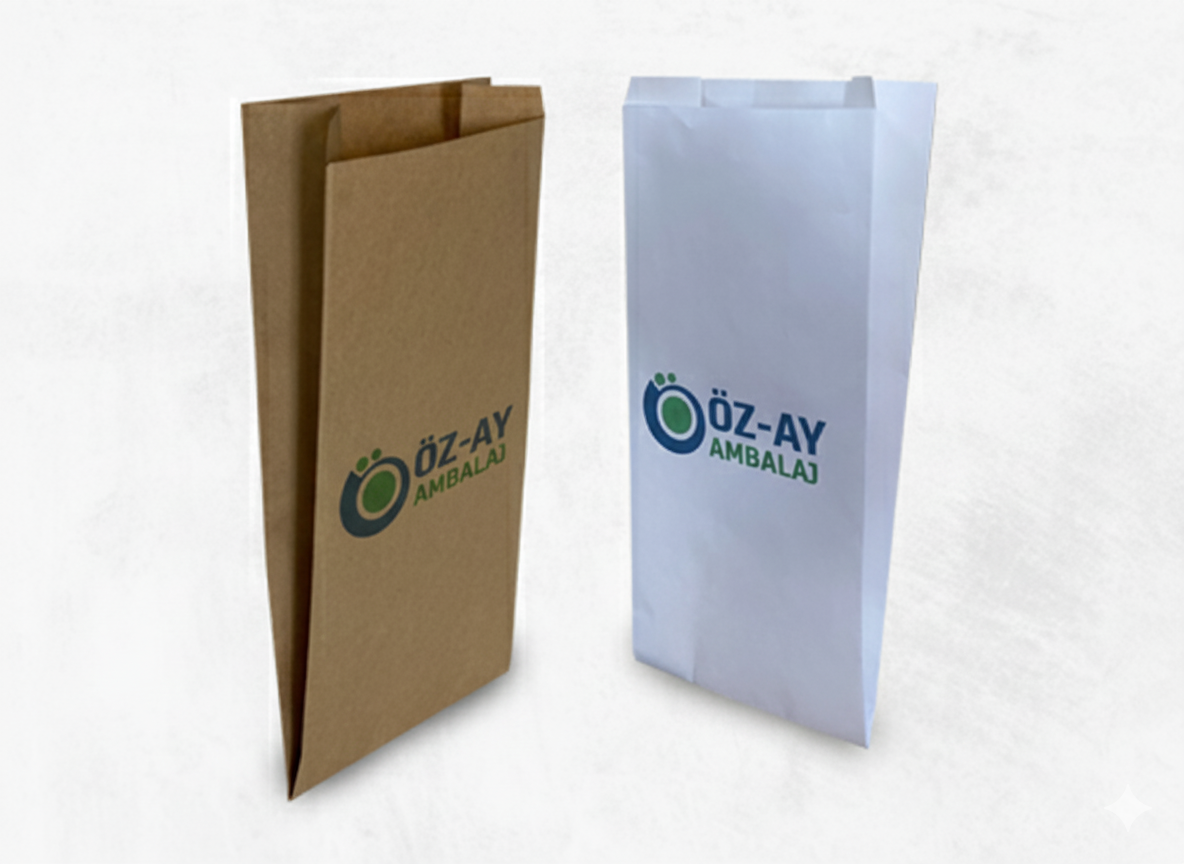
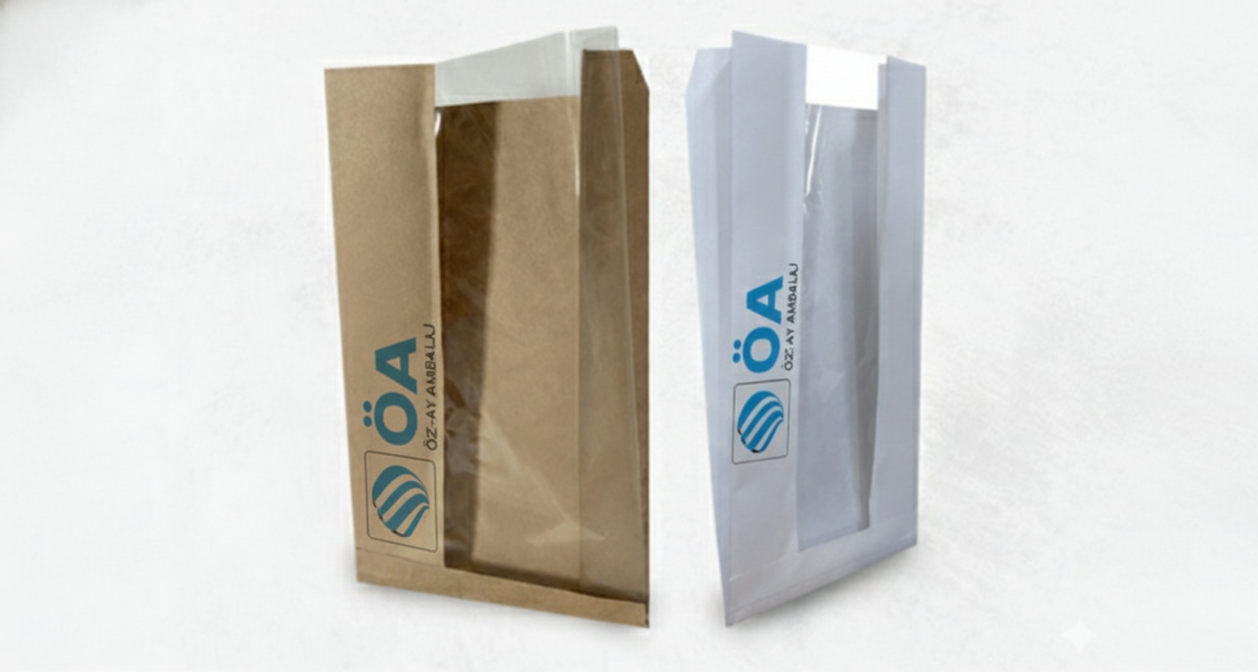
upload

diff --git a/public_html/partials/whatsapp-button.html b/public_html/partials/whatsapp-button.html
@@ -1,5 +1,5 @@
     <!-- WhatsApp Button -->
-    <a href="https://wa.me/905551234567?text=Merhaba,%20Öz-Ay%20Ambalaj%20hakkında%20bilgi%20almak%20istiyorum" 
+    <a href="https://wa.me/905354681968?text=Merhaba,%20Öz-Ay%20Ambalaj%20hakkında%20bilgi%20almak%20istiyorum" 
        class="whatsapp-button" 
        id="whatsapp-btn"
        aria-label="WhatsApp ile iletişime geçin" 
@@ -10,4 +10,3 @@
             <path d="M17.472 14.382c-.297-.149-1.758-.867-2.03-.967-.273-.099-.471-.148-.67.15-.197.297-.767.966-.94 1.164-.173.199-.347.223-.644.075-.297-.15-1.255-.463-2.39-1.475-.883-.788-1.48-1.761-1.653-2.059-.173-.297-.018-.458.13-.606.134-.133.298-.347.446-.52.149-.174.198-.298.298-.497.099-.198.05-.371-.025-.52-.075-.149-.669-1.612-.916-2.207-.242-.579-.487-.5-.669-.51-.173-.008-.371-.01-.57-.01-.198 0-.52.074-.792.372-.272.297-1.04 1.016-1.04 2.479 0 1.462 1.065 2.875 1.213 3.074.149.198 2.096 3.2 5.077 4.487.709.306 1.262.489 1.694.625.712.227 1.36.195 1.871.118.571-.085 1.758-.719 2.006-1.413.248-.694.248-1.289.173-1.413-.074-.124-.272-.198-.57-.347m-5.421 7.403h-.004a9.87 9.87 0 01-5.031-1.378l-.361-.214-3.741.982.998-3.648-.235-.374a9.86 9.86 0 01-1.51-5.26c.001-5.45 4.436-9.884 9.888-9.884 2.64 0 5.122 1.03 6.988 2.898a9.825 9.825 0 012.893 6.994c-.003 5.45-4.437 9.884-9.885 9.884m8.413-18.297A11.815 11.815 0 0012.05 0C5.495 0 .16 5.335.157 11.892c0 2.096.547 4.142 1.588 5.945L.057 24l6.305-1.654a11.882 11.882 0 005.683 1.448h.005c6.554 0 11.89-5.335 11.893-11.893a11.821 11.821 0 00-3.48-8.413z" fill="#ffffff"/>
         </svg>
     </a>
-

diff --git a/public_html/pages/tr/index.html b/public_html/pages/tr/index.html
@@ -177,7 +177,7 @@
                     </article>
                     
                     <article class="product-card" data-aos="fade-up">
-                        <img src="/assets/img/products/dipsiz-kese-kagidi.png" alt="Dipsiz Kese Kağıdı" class="product-card-image" loading="lazy">
+                        <img src="/assets/img/9.png" alt="Dipsiz Kese Kağıdı" class="product-card-image" loading="lazy">
                         <div class="product-card-content">
                             <h3 class="product-card-title">Dipsiz Kese Kağıdı</h3>
                             <p class="product-card-description">Kâğıt seçeneği belirtilerek, ölçülerinize en yakın üretilebilen standart ölçülerimiz ile üretimi sağlanır.</p>
@@ -188,7 +188,7 @@
                     </article>
                     
                     <article class="product-card" data-aos="fade-up">
-                        <img src="/assets/img/products/pencereli-dipsiz-kese-kagidi.png" alt="Pencereli Dipsiz Kese Kağıdı" class="product-card-image" loading="lazy">
+                        <img src="/assets/img/8.png" alt="Pencereli Dipsiz Kese Kağıdı" class="product-card-image" loading="lazy">
                         <div class="product-card-content">
                             <h3 class="product-card-title">Pencereli Dipsiz Kese Kağıdı</h3>
                             <p class="product-card-description">Kâğıt seçeneği belirtilerek, ölçülerinize en yakın üretilebilen standart ölçülerimiz ile üretimi sağlanır.</p>

diff --git a/public_html/pages/tr/products.html b/public_html/pages/tr/products.html
@@ -160,7 +160,7 @@
                 <!-- Product 8: Dipsiz Kese Kağıdı -->
                 <article class="product-card">
                     <div class="product-card-image-wrapper">
-                        <img src="/assets/img/products/dipsiz-kese-kagidi.png" 
+                        <img src="/assets/img/9.png" 
                              alt="Dipsiz Kese Kağıdı" 
                              class="product-card-image" 
                              loading="lazy">
@@ -175,7 +175,7 @@
                 <!-- Product 9: Pencereli Dipsiz Kese Kağıdı -->
                 <article class="product-card">
                     <div class="product-card-image-wrapper">
-                        <img src="/assets/img/products/pencereli-dipsiz-kese-kagidi.png" 
+                        <img src="/assets/img/8.png" 
                              alt="Pencereli Dipsiz Kese Kağıdı" 
                              class="product-card-image" 
                              loading="lazy">

diff --git a/public_html/pages/tr/product-pencereli-dipsiz-kese-kagidi.html b/public_html/pages/tr/product-pencereli-dipsiz-kese-kagidi.html
@@ -42,7 +42,7 @@
         <section class="product-hero">
             <div class="product-hero-content">
                 <h1>Pencereli Dipsiz Kese Kağıdı</h1>
-                <img src="/assets/img/products/pencereli-dipsiz-kese-kagidi.png" 
+                <img src="/assets/img/8.png" 
                      alt="Pencereli Dipsiz Kese Kağıdı - Öz-Ay Ambalaj" 
                      class="product-hero-image"
                      loading="eager">
@@ -69,7 +69,7 @@
                     <h3>Ürün Görselleri</h3>
                     <div class="gallery-grid">
                         <div class="gallery-item">
-                            <img src="/assets/img/products/pencereli-dipsiz-kese-kagidi.png" alt="Pencereli Dipsiz Kese Kağıdı - Öz-Ay Ambalaj" loading="lazy">
+                            <img src="/assets/img/8.png" alt="Pencereli Dipsiz Kese Kağıdı - Öz-Ay Ambalaj" loading="lazy">
                         </div>
                     </div>
                 </div>

diff --git a/public_html/js/translations.js b/public_html/js/translations.js
@@ -168,7 +168,7 @@ window.Translations = {
         // Contact Page
         'contact.address_text': 'Sample Neighborhood, Sample Street No:1<br>34000 Istanbul, Turkey',
         'contact.address_text_footer': 'Sample Neighborhood, Sample Street No:1<br>Istanbul, Turkey',
-        'contact.phone_number': '0 (541) 903 08 78',
+        'contact.phone_number': '0 (535) 468 19 68',
         'contact.email_address': 'info@ozay-ambalaj.com',
         
         // Quality Page
@@ -344,7 +344,7 @@ window.Translations = {
         // Contact Page
         'contact.address_text': 'Beispielviertel, Beispielstraße Nr. 1<br>34000 Istanbul, Türkei',
         'contact.address_text_footer': 'Beispielviertel, Beispielstraße Nr. 1<br>Istanbul, Türkei',
-        'contact.phone_number': '0 (541) 903 08 78',
+        'contact.phone_number': '0 (535) 468 19 68',
         'contact.email_address': 'info@ozay-ambalaj.com',
         
         // Quality Page

diff --git a/public_html/pages/tr/product-dipsiz-kese-kagidi.html b/public_html/pages/tr/product-dipsiz-kese-kagidi.html
@@ -42,7 +42,7 @@
         <section class="product-hero">
             <div class="product-hero-content">
                 <h1>Dipsiz Kese Kağıdı</h1>
-                <img src="/assets/img/products/dipsiz-kese-kagidi.png" 
+                <img src="/assets/img/9.png" 
                      alt="Dipsiz Kese Kağıdı - Öz-Ay Ambalaj" 
                      class="product-hero-image"
                      loading="eager">
@@ -69,7 +69,7 @@
                     <h3>Ürün Görselleri</h3>
                     <div class="gallery-grid">
                         <div class="gallery-item">
-                            <img src="/assets/img/products/dipsiz-kese-kagidi.png" alt="Dipsiz Kese Kağıdı - Öz-Ay Ambalaj" loading="lazy">
+                            <img src="/assets/img/9.png" alt="Dipsiz Kese Kağıdı - Öz-Ay Ambalaj" loading="lazy">
                         </div>
                     </div>
                 </div>

diff --git a/public_html/partials/footer.html b/public_html/partials/footer.html
@@ -42,7 +42,7 @@
                             <svg viewBox="0 0 24 24" fill="none" stroke="#ffffff" stroke-width="2">
                                 <path d="M22 16.92v3a2 2 0 0 1-2.18 2 19.79 19.79 0 0 1-8.63-3.07 19.5 19.5 0 0 1-6-6 19.79 19.79 0 0 1-3.07-8.67A2 2 0 0 1 4.11 2h3a2 2 0 0 1 2 1.72 12.84 12.84 0 0 0 .7 2.81 2 2 0 0 1-.45 2.11L8.09 9.91a16 16 0 0 0 6 6l1.27-1.27a2 2 0 0 1 2.11-.45 12.84 12.84 0 0 0 2.81.7A2 2 0 0 1 22 16.92z"></path>
                             </svg>
-                            <span>0 (541) 903 08 78</span>
+                            <a href="tel:+905354681968" style="color: inherit; text-decoration: none;">0 (535) 468 19 68</a>
                         </p>
                         <p>
                             <svg viewBox="0 0 24 24" fill="none" stroke="#ffffff" stroke-width="2">

diff --git a/public_html/pages/tr/contact.html b/public_html/pages/tr/contact.html
@@ -55,7 +55,7 @@
                             <p data-i18n="contact.address_text">Oruçreis, Barbaros Cd. No 142,<br>34235 Esenler/İstanbul</p>
                             
                             <h4 style="margin-top: 1.5rem;" data-i18n="footer.phone">Telefon</h4>
-                            <p><a href="tel:+905551234567" data-i18n="contact.phone_number">0 (541) 903 08 78</a></p>
+                            <p><a href="tel:+905354681968" data-i18n="contact.phone_number">0 (535) 468 19 68</a></p>
                             
                             <h4 style="margin-top: 1.5rem;" data-i18n="footer.email">E-posta</h4>
                             <p><a href="mailto:info@ozay-ambalaj.com" data-i18n="contact.email_address">info@ozay-ambalaj.com</a></p>

diff --git a/public_html/pages/tr/references.html b/public_html/pages/tr/references.html
@@ -111,6 +111,9 @@
                 <div class="reference-item"  data-aos-delay="200">
                     <img src="assets/marka_logos/IMG-20251108-WA0028.jpg" alt="Referans Marka">
                 </div>
+                <div class="reference-item"  data-aos-delay="300">
+                    <img src="assets/marka_logos/migros.svg" alt="Migros">
+                </div>
             </div>
         </div>
     </main>

diff --git a/public_html/css/products.css b/public_html/css/products.css
@@ -70,7 +70,7 @@
   height: 400px !important;
   min-height: 400px !important;
   max-height: 400px !important;
-  background-color: var(--gray-50) !important;
+  background-color: transparent !important;
   display: flex !important;
   align-items: center !important;
   justify-content: center !important;

diff --git a/public_html/css/index.css b/public_html/css/index.css
@@ -155,7 +155,7 @@
   height: 300px;
   object-fit: contain;
   object-position: center;
-  background-color: var(--gray-50);
+  background-color: transparent;
   padding: 1rem;
   display: block;
 }
